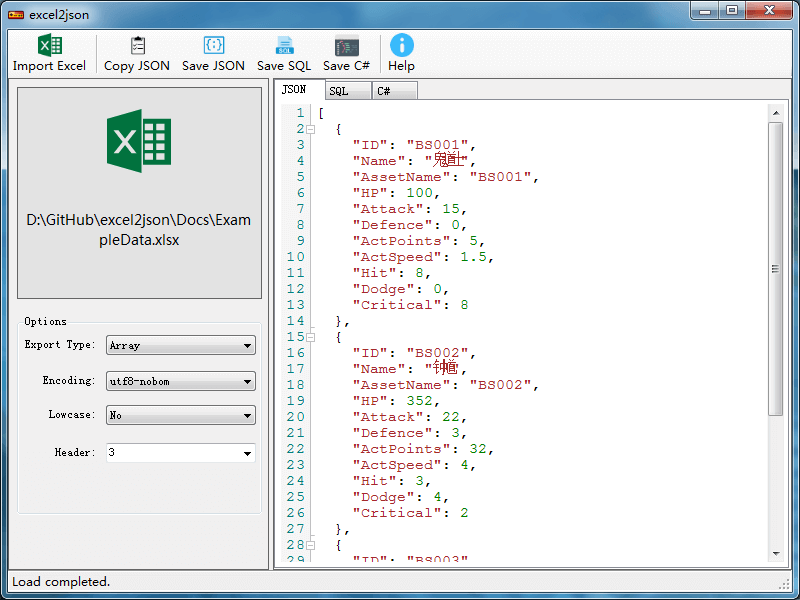
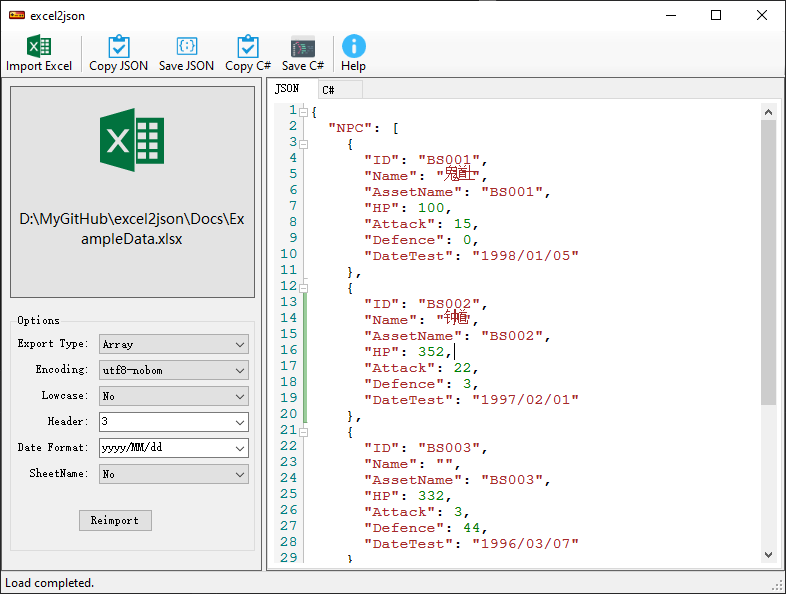
update excel2json

diff --git a/app/excel2json.md b/app/excel2json.md
@@ -11,8 +11,8 @@ title: excel2json
 
 ### 版本更新
 
-* 最新版：  **1.2.0**
-* 更新日期：**2019年2月3日**
+* 最新版：  **1.3.0**
+* 更新日期：**2020年7月11日**
 * 最新版下载：[https://github.com/neil3d/excel2json/releases](https://github.com/neil3d/excel2json/releases)
 * 源代码Github地址：[https://github.com/neil3d/excel2json](https://github.com/neil3d/excel2json)
 
@@ -22,6 +22,7 @@ title: excel2json
 * 支持读取 Excel 97-2003的 .xls格式和2007的 .xlsx格式；
 * 支持多个表单导出；
 * 把Excel表单转换成Json对象，并保存到一个文本文件中。支持将表中内容转换成**Array**，或者以第一列为ID的**字典对象**；
+* 将表头信息生成 C# 结构体定义代码；
 
 ### 支持GUI模式和命令行模式
 
@@ -45,6 +46,7 @@ for /f "delims=" %%i in ('dir /b /a-d /s %EXCEL_FOLDER%\*.xlsx') do (
 #### 命令行参数
 -  -e, --excel       Required. 输入的Excel文件路径.
 -  -j, --json        指定输出的json文件路径.
+-  -p, --csharp      指定输出的C#文件路径.
 -  -h, --header      (Default: 3)表格中有几行是表头.
 -  -c, --encoding    (Default: utf8-nobom) 指定编码的名称.
 -  -l, --lowcase     (Default: false) 自动把字段名称转换成小写格式.

diff --git a/coding/excel2json.md b/coding/excel2json.md
@@ -11,8 +11,8 @@ title: excel2json
 
 ### 版本更新
 
-* 最新版：  **1.2.0**
-* 更新日期：**2019年2月3日**
+* 最新版：  **1.3.0**
+* 更新日期：**2020年7月11日**
 * 最新版下载：[https://github.com/neil3d/excel2json/releases](https://github.com/neil3d/excel2json/releases)
 * 源代码Github地址：[https://github.com/neil3d/excel2json](https://github.com/neil3d/excel2json)
 
@@ -22,6 +22,7 @@ title: excel2json
 * 支持读取 Excel 97-2003的 .xls格式和2007的 .xlsx格式；
 * 支持多个表单导出；
 * 把Excel表单转换成Json对象，并保存到一个文本文件中。支持将表中内容转换成**Array**，或者以第一列为ID的**字典对象**；
+* 将表头信息生成 C# 结构体定义代码；
 
 ### 支持GUI模式和命令行模式
 
@@ -45,6 +46,7 @@ for /f "delims=" %%i in ('dir /b /a-d /s %EXCEL_FOLDER%\*.xlsx') do (
 #### 命令行参数
 -  -e, --excel       Required. 输入的Excel文件路径.
 -  -j, --json        指定输出的json文件路径.
+-  -p, --csharp      指定输出的C#文件路径.
 -  -h, --header      (Default: 3)表格中有几行是表头.
 -  -c, --encoding    (Default: utf8-nobom) 指定编码的名称.
 -  -l, --lowcase     (Default: false) 自动把字段名称转换成小写格式.
